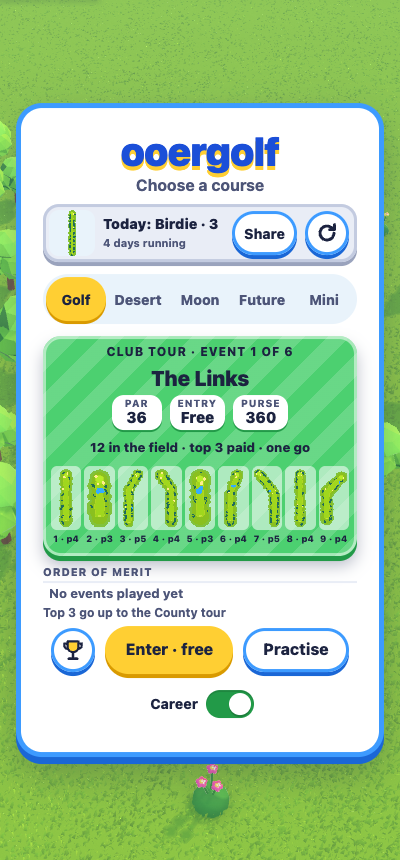
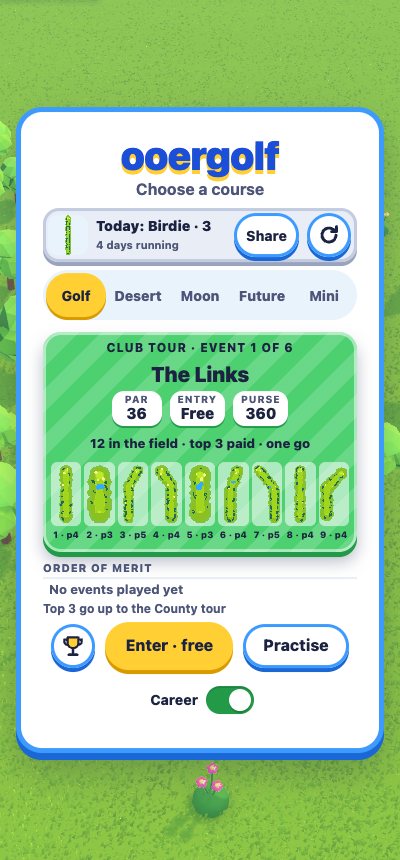
The daily strip fits inside the title's cards, and a smoke page's clock is held without freezing.
Under the title the start screen's panel may not scroll and was 66 pixels too short for the strip on a desk (504 of content in 438) and 77 on
a phone. The share of the screen the cards may take is 0.65 on a desk and 0.7 on a phone (0.56 and 0.6), the word is fitted above them,
and on a phone the strip is a smaller plate with the lead alone and Play for its button; `lead` and `date` are the strip's words in
two parts. A smoke page's clock was held with a frozen clock that stopped `performance.now` and with it the boot's timing tests: it
is now `Date` an offset from the real one, which goes on at its pace, and `turnTheDay` moves it. The fresh save the boot test holds
has the slot. The daily pictures were written again for the phone's strip, and the title pictures the move of the cards touched are
not written again.

Changed region(s): [[0.03, 0.1209, 0.96, 0.907]]

diff --git a/smoke/game.ts b/smoke/game.ts
@@ -16,6 +16,35 @@ declare global {
   }
 }
 
+/**
+ * The page's clock held to a moment, so the day by it (and so the daily hole) is the same whenever a test is run: `Date` is put an
+ * offset from the real one and goes on at the real pace, and nothing else is touched (a frozen clock stopped `performance.now`
+ * too, and with it every timing the boot's tests read). Run in the page, before its own scripts.
+ */
+function holdTheDay(iso: string) {
+  const Real = Date;
+  const clock = { real: Real, offset: Real.parse(iso) - Real.now() };
+  (window as unknown as { dayClock: typeof clock }).dayClock = clock;
+  class Held extends Real {
+    constructor(...args: unknown[]) {
+      if (args.length === 0) super(Real.now() + clock.offset);
+      else super(...(args as ConstructorParameters<DateConstructor>));
+    }
+    static now() {
+      return Real.now() + clock.offset;
+    }
+  }
+  window.Date = Held as DateConstructor;
+}
+
+/** The day turned, on a page opened with `start`: its clock now reads `iso`, and goes on from there. */
+export function turnTheDay(page: Page, iso: string) {
+  return page.evaluate((to) => {
+    const clock = (window as unknown as { dayClock: { real: DateConstructor; offset: number } }).dayClock;
+    clock.offset = clock.real.parse(to) - clock.real.now();
+  }, iso);
+}
+
 /** Errors on the page, and requests that failed, collected as they happen. */
 export function watch(page: Page): string[] {
   const problems: string[] = [];
@@ -55,7 +84,7 @@ export async function start(
   } = {},
 ) {
   const { save, seed, paused, screen, rung, title, flyIn, day = '2026-11-11' } = options;
-  await page.clock.setFixedTime(new Date(`${day}T12:00:00Z`));
+  await page.addInitScript(holdTheDay, `${day}T12:00:00Z`);
   if (save)
     await page.addInitScript((s) => {
       if (sessionStorage.getItem('ooergolf-test-seeded')) return;

diff --git a/src/dailywords.ts b/src/dailywords.ts
@@ -72,7 +72,10 @@ export type StripState = 'open' | 'done' | 'unfinished';
 
 export interface StripView {
   state: StripState;
+  /** The words over the strip in full, and in two parts: the lead, and what follows it that a phone has no room for (the date). */
   title: string;
+  lead: string;
+  date: string;
   meta: string;
   /** Which buttons are there: Play today's hole, Share, and a go again for nothing. */
   play: boolean;
@@ -92,6 +95,8 @@ export function stripView(slot: Readonly<DailySlot>, day: string, facts: DailyFa
     return {
       state: 'open',
       title: `Today’s hole · ${dayLong(day)}`,
+      lead: 'Today’s hole',
+      date: dayLong(day),
       meta: `${BIOME_NAMES[facts.biome]} · par ${facts.par} · ${facts.yards} yards · ${wind} · one go counts`,
       play: true,
       share: false,
@@ -102,14 +107,19 @@ export function stripView(slot: Readonly<DailySlot>, day: string, facts: DailyFa
     return {
       state: 'unfinished',
       title: 'Today: did not finish',
+      lead: 'Today: did not finish',
+      date: '',
       meta: 'One go counts, and it was taken',
       play: false,
       share: false,
       again: true,
     };
+  const score = `Today: ${plain(slot.strokes, slot.par)} · ${slot.strokes}`;
   return {
     state: 'done',
-    title: `Today: ${plain(slot.strokes, slot.par)} · ${slot.strokes}`,
+    title: score,
+    lead: score,
+    date: '',
     meta: days(slot.streak),
     play: false,
     share: true,

diff --git a/src/titlescene.ts b/src/titlescene.ts
@@ -54,11 +54,13 @@ export const VIEW = {
  * The course cards on the start screen, which the stylesheet places and this says: the panel stands on the foot of the
  * screen `foot` pixels up, and is no taller than `share` of it, `tall` of a phone's (0.6 since 15 October 2026, when the
  * course picker came: its tabs, a course's card with the preview above its figures, and Play are about 460 pixels on a
- * phone, where 0.5 gave 390 on one 360 by 800; the word is limited by the width on a phone and stands as high as it did).
+ * phone, where 0.5 gave 390 on one 360 by 800; the word is limited by the width on a phone and stands as high as it did). On 11 November
+ * 2026 the daily hole's strip came above the tabs, which is 66 pixels more on a desk (the share was 0.56 and is 0.65: 504 of
+ * content in 520 at 1280 by 800) and 60 more on a phone (0.6 to 0.7: 547 of content in 560 at 360 by 800).
  * One place, so the word is held clear of the most the panel can be, and the stylesheet reads the height through
  * `--cards-max` and holds no figure of its own.
  */
-export const CARDS = { foot: 14, share: 0.56, tall: 0.6, gap: 0.05, top: 0.05, side: 0.92 } as const;
+export const CARDS = { foot: 14, share: 0.65, tall: 0.7, gap: 0.05, top: 0.05, side: 0.92 } as const;
 
 /** Whether a screen of this size is a phone's or a short one's, which the cards take half the height of. */
 const isPhone = (width: number, height: number) => width <= 600 || height <= 500;

diff --git a/smoke/progress.spec.ts b/smoke/progress.spec.ts
@@ -35,7 +35,7 @@ import { CADDIE_HOLES, FLAT } from '../test/level';
 import { wideHole } from '../test/wide-hole';
 import { smallHole } from './bighole';
 import { BUDGET } from './budget';
-import { TROPHIES_SAVE, drag, intoThePond, landed, puttAtCup, puttingHole, start, watch } from './game';
+import { TROPHIES_SAVE, drag, intoThePond, landed, puttAtCup, puttingHole, start, turnTheDay, watch } from './game';
 import { CONTRAST, THUMB, holeOut, openDrawer, read } from './panels';
 import { alone } from './gpu';
 
@@ -978,7 +978,7 @@ test('the daily hole: the strip asks for a go, the first go is paid and kept and
   expect(await page.evaluate(() => window.game!.invariants())).toEqual([]);
 
   // the day turns at midnight UTC: the strip, read when the start screen opens, asks for a go again, and the old day stays kept
-  await page.clock.setFixedTime(new Date(`${NEXT}T00:00:01Z`));
+  await turnTheDay(page, `${NEXT}T00:00:01Z`);
   await page.evaluate(() => window.game!.playDaily('2026-11-11'));
   await page.evaluate(() => window.game!.menu(true));
   await page.locator('#menuCourses').click();

diff --git a/index.html b/index.html
@@ -1160,13 +1160,17 @@
   }
   @media (max-width: 600px) {
     #daily {
-      grid-template-columns: 46px minmax(0, 1fr) auto;
+      grid-template-columns: 40px minmax(0, 1fr) auto;
       gap: 8px;
-      padding: 6px 8px 6px 6px;
+      margin-bottom: 8px;
+      padding: 5px 6px 5px 5px;
+    }
+    #daily .long {
+      display: none;
     }
     #dailyPic {
-      width: 46px;
-      height: 46px;
+      width: 40px;
+      height: 40px;
     }
     #dailyText b {
       font-size: 14px;
@@ -3118,7 +3122,9 @@
     <canvas id="dailyPic" width="58" height="58" aria-hidden="true"></canvas>
     <div id="dailyText"><b id="dailyTitle"></b><small id="dailyMeta"></small></div>
     <div id="dailyActs">
-      <button id="dailyPlay" type="button">Play today’s hole</button>
+      <button id="dailyPlay" type="button" aria-label="Play today’s hole">
+        Play<span class="long"> today’s hole</span>
+      </button>
       <button id="dailyShare" type="button" class="quiet">Share</button>
       <button
         id="dailyAgain"

diff --git a/test/dailywords.test.ts b/test/dailywords.test.ts
@@ -45,6 +45,16 @@ describe('the strip on the start screen', () => {
     });
   });
 
+  it('splits what a phone has no room for, the date, from the lead, in every state', () => {
+    const open = stripView(NONE, DAY, FACTS);
+    expect([open.lead, open.date]).toEqual(['Today’s hole', 'Wednesday 11 November']);
+    expect(`${open.lead} · ${open.date}`).toBe(open.title);
+    const done = stripView({ day: DAY, strokes: 3, par: 4, streak: 4 }, DAY, FACTS);
+    expect([done.lead, done.date]).toEqual([done.title, '']);
+    const dnf = stripView({ day: DAY, strokes: 0, par: 4, streak: 1 }, DAY, FACTS);
+    expect([dnf.lead, dnf.date]).toEqual([dnf.title, '']);
+  });
+
   it('is the same for a slot of another day, whichever way it lies, and says still air where there is none', () => {
     expect(stripView({ day: shiftDay(DAY, -1), strokes: 3, par: 4, streak: 5 }, DAY, FACTS).state).toBe('open');
     expect(stripView({ day: shiftDay(DAY, 1), strokes: 3, par: 4, streak: 5 }, DAY, FACTS).state).toBe('open');

diff --git a/src/hud.ts b/src/hud.ts
@@ -1478,7 +1478,15 @@ export class Hud {
     this.daily.hidden = view === null;
     if (view === null) return;
     this.daily.dataset.state = view.state;
-    document.getElementById('dailyTitle')!.textContent = view.title;
+    // the date is a span a phone has no room for, so the lead alone is what it reads
+    const title = document.getElementById('dailyTitle')!;
+    title.textContent = view.lead;
+    if (view.date !== '') {
+      const date = document.createElement('span');
+      date.className = 'long';
+      date.textContent = ` · ${view.date}`;
+      title.append(date);
+    }
     document.getElementById('dailyMeta')!.textContent = view.meta;
     (document.getElementById('dailyPlay') as HTMLButtonElement).hidden = !view.play;
     (document.getElementById('dailyShare') as HTMLButtonElement).hidden = !view.share;

diff --git a/smoke/game.spec.ts b/smoke/game.spec.ts
@@ -153,7 +153,8 @@ const FRESH_SAVE =
   '"desert":{"grade":"club","begun":0,"played":[],"titles":0},"moon":{"grade":"club","begun":0,"played":[],"titles":0},' +
   '"future":{"grade":"club","begun":0,"played":[],"titles":0}},' +
   '"caddie":{"club":0,"shape":0,"spin":0},"muted":false,"volume":1,' +
-  '"life":{"rounds":0,"wins":0,"holes":0,"aces":0,"eagles":0,"birdies":0,"lost":0,"lipOuts":0,"longestPutt":0,"longestDrive":0},"feats":[]}';
+  '"life":{"rounds":0,"wins":0,"holes":0,"aces":0,"eagles":0,"birdies":0,"lost":0,"lipOuts":0,"longestPutt":0,"longestDrive":0},"feats":[],' +
+  '"daily":{"day":"","strokes":0,"par":0,"streak":0}}';
 
 test('writes its save, and boots again from it', async ({ page }) => {
   const problems = watch(page);

diff --git a/HOW-IT-WORKS.md b/HOW-IT-WORKS.md
@@ -1297,7 +1297,7 @@ minigolf: true }`, read through `oceanFor`) is the one switch: `waterBed` and `s
 daily, 11 Nov 2026`, `Par 4: 3 strokes, Birdie` and `https://golf.ooer.com/`, nothing of the player (the mock also had the biome, the yards
   and the run, which are left out). The menu says `Today's hole · 11 Nov 2026 · 2 strokes · par 4`, that the first go is the one that counts
   or that a later go pays nothing, Give up scores the limit for the day, Restart is there only on a later go, Courses leaves the go as it
-  stands (not finished, if a stroke was taken), and Trophies as ever. `npm run daily:check` (`scripts/daily.ts`, `daily-check.ts`) builds
+  stands (not finished, if a stroke was taken), and Trophies as ever. The strip stands inside the title's cards, which had no room for it: `CARDS.share` is 0.65 (it was 0.56) and `tall` 0.7 (0.6), so the panel may be 520 of 800 on a desk and 560 of 800 on a phone (504 and 547 of content), and on a phone the strip is a smaller plate, the lead alone ('Today's hole', the date is a span) and Play for the button's word; the title's word is fitted above the higher cards and the title pictures moved with it. `npm run daily:check` (`scripts/daily.ts`, `daily-check.ts`) builds
   400 days from 11 November 2026 and plays each on eight seeds with the pace player: 3 minutes 19 seconds, held to 98% of all rounds holed
   inside the limit and each day to 60%, none stuck and none on the plain hole, and 15% of days at most with a spec refused. Measured on
   ten seeds: 99.3% (17 days of 400 at nine in ten, 4 at eight and 1 at seven, which is why the bar is not nine in ten for each day as the plan
